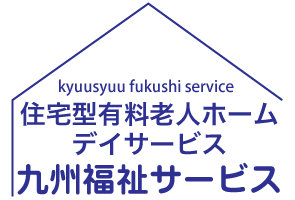
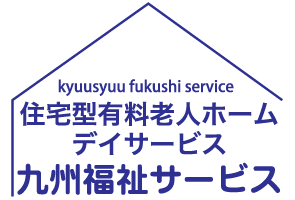
[FIX]画像修正

diff --git a/branch/umemitsu.html b/branch/umemitsu.html
@@ -106,7 +106,7 @@
 						<!-- InstanceBeginEditable name="h1_meta" -->
 						<div class="navbar-brand">
                             <a href="../index.html" class="scroll">
-															<h1 class="h1_reset"><img src="../images/header_logo.png" alt="住宅型有料老人ホームと通所介護事業で地域を豊かにする株式会社九州福祉サービス" class="img-responsive retina"></h1>
+															<div class="h1_reset"><img src="../images/header_logo.png" alt="住宅型有料老人ホームと通所介護事業で地域を豊かにする株式会社九州福祉サービス" class="img-responsive retina"></div>
                             </a>
                         </div>
 						<!-- InstanceEndEditable -->
@@ -147,7 +147,7 @@
       <!--<div class="overlay2"></div>-->
       <div class="container-fluid">
         <div class="row top_margin30">
-					<div class="col-md-3 col-md-offset-1 col-xs-4 col-xs-offset-4 wow fadeInLeft" data-wow-delay=".5s"><h2><img src="images/mark_umetsu.png" class="img-responsive retina slidInLeft wow center-block" alt="住宅型有料老人ホーム　2nd LIFE"></h2></div>
+					<div class="col-md-3 col-md-offset-1 col-xs-4 col-xs-offset-4 wow fadeInLeft" data-wow-delay=".5s"><img src="images/mark_umetsu.png" class="img-responsive retina slidInLeft wow center-block" alt="住宅型有料老人ホーム　2nd LIFE"></div>
         </div>
         <div class="row">
           <div class="col-md-3 col-md-offset-8  wow slidInLeft">
@@ -155,7 +155,7 @@
               <!--<h2 class="slider-title2 wow slidInLeft text-center wow fadeInLeft" data-wow-delay="1.0s" >九州福祉サービスは<br>
                 セカンドライフを大切にしています。</h2>-->
               <div class="row row-10 top_margin30 wow fadeInLeft pc_img_margin1" data-wow-delay="1.0s">
-								<div class="col-xs-4 col-xs-offset-4 col-sm-2 col-sm-offset-5 col-md-8 col-md-offset-2"><h3><img src="images/ico_umetsu.png" class="img-responsive retina" alt="住宅型有料老人ホーム"></h3></div>
+								<div class="col-xs-4 col-xs-offset-4 col-sm-2 col-sm-offset-5 col-md-8 col-md-offset-2"><h1><img src="images/ico_umetsu.png" class="img-responsive retina" alt="住宅型有料老人ホーム"></h1></div>
               </div>
               <!--<p class= "wow slidInRight">Quisque portitor leo as vitae tincidun rutrum urna turpis nullam consequat.Scupiditate ex provident natus unde nam.Placeat.</p>
                         <a class="btn btn-slide wow fadeInUp" data-wow-delay="0s">Discover us</a>-->

diff --git a/branch/index.html b/branch/index.html
@@ -103,7 +103,7 @@
 						<!-- InstanceBeginEditable name="h1_meta" -->
 						<div class="navbar-brand">
                             <a href="../index.html" class="scroll">
-															<h1 class="h1_reset"><img src="../images/header_logo.png" alt="住宅型有料老人ホームと通所介護事業で地域を豊かにする株式会社九州福祉サービス" class="img-responsive retina"></h1>
+															<div class="h1_reset"><img src="../images/header_logo.png" alt="住宅型有料老人ホームと通所介護事業で地域を豊かにする株式会社九州福祉サービス" class="img-responsive retina"></div>
                             </a>
                         </div>
 						<!-- InstanceEndEditable -->
@@ -144,7 +144,7 @@
       <!--<div class="overlay2"></div>-->
       <div class="container-fluid">
         <div class="row top_margin30">
-					<div class="col-md-3 col-md-offset-1 wow fadeInLeft col-xs-4 col-xs-offset-4" data-wow-delay=".5s"><h2><img src="images/mark_branch.png" class="img-responsive retina slidInLeft wow center-block" alt="住宅型有料老人ホーム　2nd LIFE"></h2></div>
+					<div class="col-md-3 col-md-offset-1 wow fadeInLeft col-xs-4 col-xs-offset-4" data-wow-delay=".5s"><img src="images/mark_branch.png" class="img-responsive retina slidInLeft wow center-block" alt="住宅型有料老人ホーム　2nd LIFE"></div>
         </div>
         <div class="row">
           <div class="col-md-3 col-md-offset-8  wow slidInLeft">
@@ -152,7 +152,7 @@
               <!--<h2 class="slider-title2 wow slidInLeft text-center wow fadeInLeft" data-wow-delay="1.0s" >九州福祉サービスは<br>
                 セカンドライフを大切にしています。</h2>-->
               <div class="row row-10 wow fadeInLeft pc_img_margin1" data-wow-delay="1.0s">
-								<div class="col-xs-4 col-xs-offset-4 col-sm-2 col-sm-offset-5 col-md-8 col-md-offset-2"><h3><img src="images/ico_branch.png" class="img-responsive retina" alt="施設のご案内"></h3></div>
+								<div class="col-xs-4 col-xs-offset-4 col-sm-2 col-sm-offset-5 col-md-8 col-md-offset-2"><h1><img src="images/ico_branch.png" class="img-responsive retina" alt="施設のご案内"></h1></div>
               </div>
               <!--<p class= "wow slidInRight">Quisque portitor leo as vitae tincidun rutrum urna turpis nullam consequat.Scupiditate ex provident natus unde nam.Placeat.</p>
                         <a class="btn btn-slide wow fadeInUp" data-wow-delay="0s">Discover us</a>-->

diff --git a/company/index.html b/company/index.html
@@ -106,7 +106,7 @@
 						<!-- InstanceBeginEditable name="h1_meta" -->
 						<div class="navbar-brand">
                             <a href="../index.html" class="scroll">
-															<h1 class="h1_reset"><img src="../images/header_logo.png" alt="住宅型有料老人ホームと通所介護事業で地域を豊かにする株式会社九州福祉サービス" class="img-responsive retina"></h1>
+															<div class="h1_reset"><img src="../images/header_logo.png" alt="住宅型有料老人ホームと通所介護事業で地域を豊かにする株式会社九州福祉サービス" class="img-responsive retina"></div>
                             </a>
                         </div>
 						<!-- InstanceEndEditable -->
@@ -147,7 +147,7 @@
       <!--<div class="overlay2"></div>-->
       <div class="container-fluid">
         <div class="row top_margin30">
-					<div class="col-md-2 col-md-offset-1 col-xs-6 wow fadeInLeft" data-wow-delay=".5s"><h2><img src="images/mark_company.png" class="img-responsive retina slidInLeft wow center-block" alt="住宅型有料老人ホーム　2nd LIFE"></h2></div>
+					<div class="col-md-2 col-md-offset-1 col-xs-6 wow fadeInLeft" data-wow-delay=".5s"><img src="images/mark_company.png" class="img-responsive retina slidInLeft wow center-block" alt="住宅型有料老人ホーム　2nd LIFE"></div>
         </div>
         <div class="row">
           <div class="col-md-3 col-md-offset-8  wow slidInLeft">
@@ -155,7 +155,7 @@
               <!--<h2 class="slider-title2 wow slidInLeft text-center wow fadeInLeft" data-wow-delay="1.0s" >九州福祉サービスは<br>
                 セカンドライフを大切にしています。</h2>-->
               <div class="row row-10 wow fadeInLeft pc_img_margin1" data-wow-delay="1.0s">
-								<div class="col-xs-4 col-xs-offset-8 col-sm-3 col-sm-offset-8 col-md-8 col-md-offset-3"><h3><img src="images/ico_company.png" class="img-responsive retina" alt="会社概要"></h3></div>
+								<div class="col-xs-4 col-xs-offset-8 col-sm-3 col-sm-offset-8 col-md-8 col-md-offset-3"><h1><img src="images/ico_company.png" class="img-responsive retina" alt="会社概要"></h1></div>
               </div>
               <!--<p class= "wow slidInRight">Quisque portitor leo as vitae tincidun rutrum urna turpis nullam consequat.Scupiditate ex provident natus unde nam.Placeat.</p>
                         <a class="btn btn-slide wow fadeInUp" data-wow-delay="0s">Discover us</a>-->

diff --git a/index.html b/index.html
@@ -149,7 +149,7 @@
         <div class="row">
           <div class="col-md-3 col-md-offset-1  wow slidInLeft">
             <div class="welcome-text">
-              <h2 class="slider-title2 wow slidInLeft text-center wow fadeInLeft" data-wow-delay="1.0s" >九州福祉サービスは<br>
+              <h2 class="slider-title2 wow slidInLeft text-center wow fadeInLeft text_deco" data-wow-delay="1.0s" >九州福祉サービスは<br>
                 セカンドライフを大切にしています。</h2>
               <div class="row row-10 top_margin30 wow fadeInLeft" data-wow-delay="1.5s">
                 <div class="col-xs-4"><a href="home/index.html"><img src="images/ico_roujinhome.png" class="img-responsive retina center-block" alt="住宅型有料老人ホーム"></a></div>
@@ -173,7 +173,7 @@
         <div class="row">
           <div class="col-md-3 col-md-offset-1  wow slidInLeft">
             <div class="welcome-text">
-              <h2 class="slider-title2 wow slidInLeft text-center wow fadeInLeft" data-wow-delay="1.0s" >九州福祉サービスは<br>
+              <h2 class="slider-title2 wow slidInLeft text-center wow fadeInLeft text_deco" data-wow-delay="1.0s" >九州福祉サービスは<br>
                 セカンドライフを大切にしています。</h2>
               <!--<div class="row row-10 top_margin30 wow fadeInLeft" data-wow-delay="1.5s">
                 <div class="col-xs-4"><a href="home/index.html"><img src="images/ico_roujinhome.png" class="img-responsive retina" alt="住宅型有料老人ホーム"></a></div>

diff --git a/css/index_customize.css b/css/index_customize.css
@@ -694,6 +694,10 @@ a:hover img{
   font-size: 13px;
 }
 
+.text_deco {
+  text-shadow: 1px 1px 1px hsla(0,0%,100%,1.00);
+}
+
 
 
 @media (max-width:320px){
@@ -711,7 +715,9 @@ a:hover img{
 }
 
 .navbar-brand {
-  width: 60%;
+  width: 65%;
+  padding-left: 5px;
+  padding-right: 5px;
 }
 
 .company_table_width1 {
@@ -1140,6 +1146,13 @@ a:hover img{
 .day_lb_text {
   font-size: 11px;
 }
+
+.navbar-brand {
+  width: 65%;
+  padding-left: 5px;
+  padding-right: 5px;
+  padding-top: 9px;
+}
 }
 
 @media (min-width:376px) and (max-width:414px){
@@ -1348,6 +1361,13 @@ a:hover img{
 
 .day_lb_text {
   font-size: 13px;
+}
+
+.navbar-brand {
+  width: 65%;
+  padding-left: 5px;
+  padding-right: 5px;
+  padding-top: 9px;
 }
 }
 

diff --git a/css/responsive.css b/css/responsive.css
@@ -361,10 +361,6 @@ figure.effect-zoe figcaption {
     border-top: 1px solid rgb(239, 239, 239);
 }
 
-.navbar-brand {
-  width: 66%;
-  padding-left: 10px;
-}
 
 .navbar-toggle {
   background-color: #E699BB;
